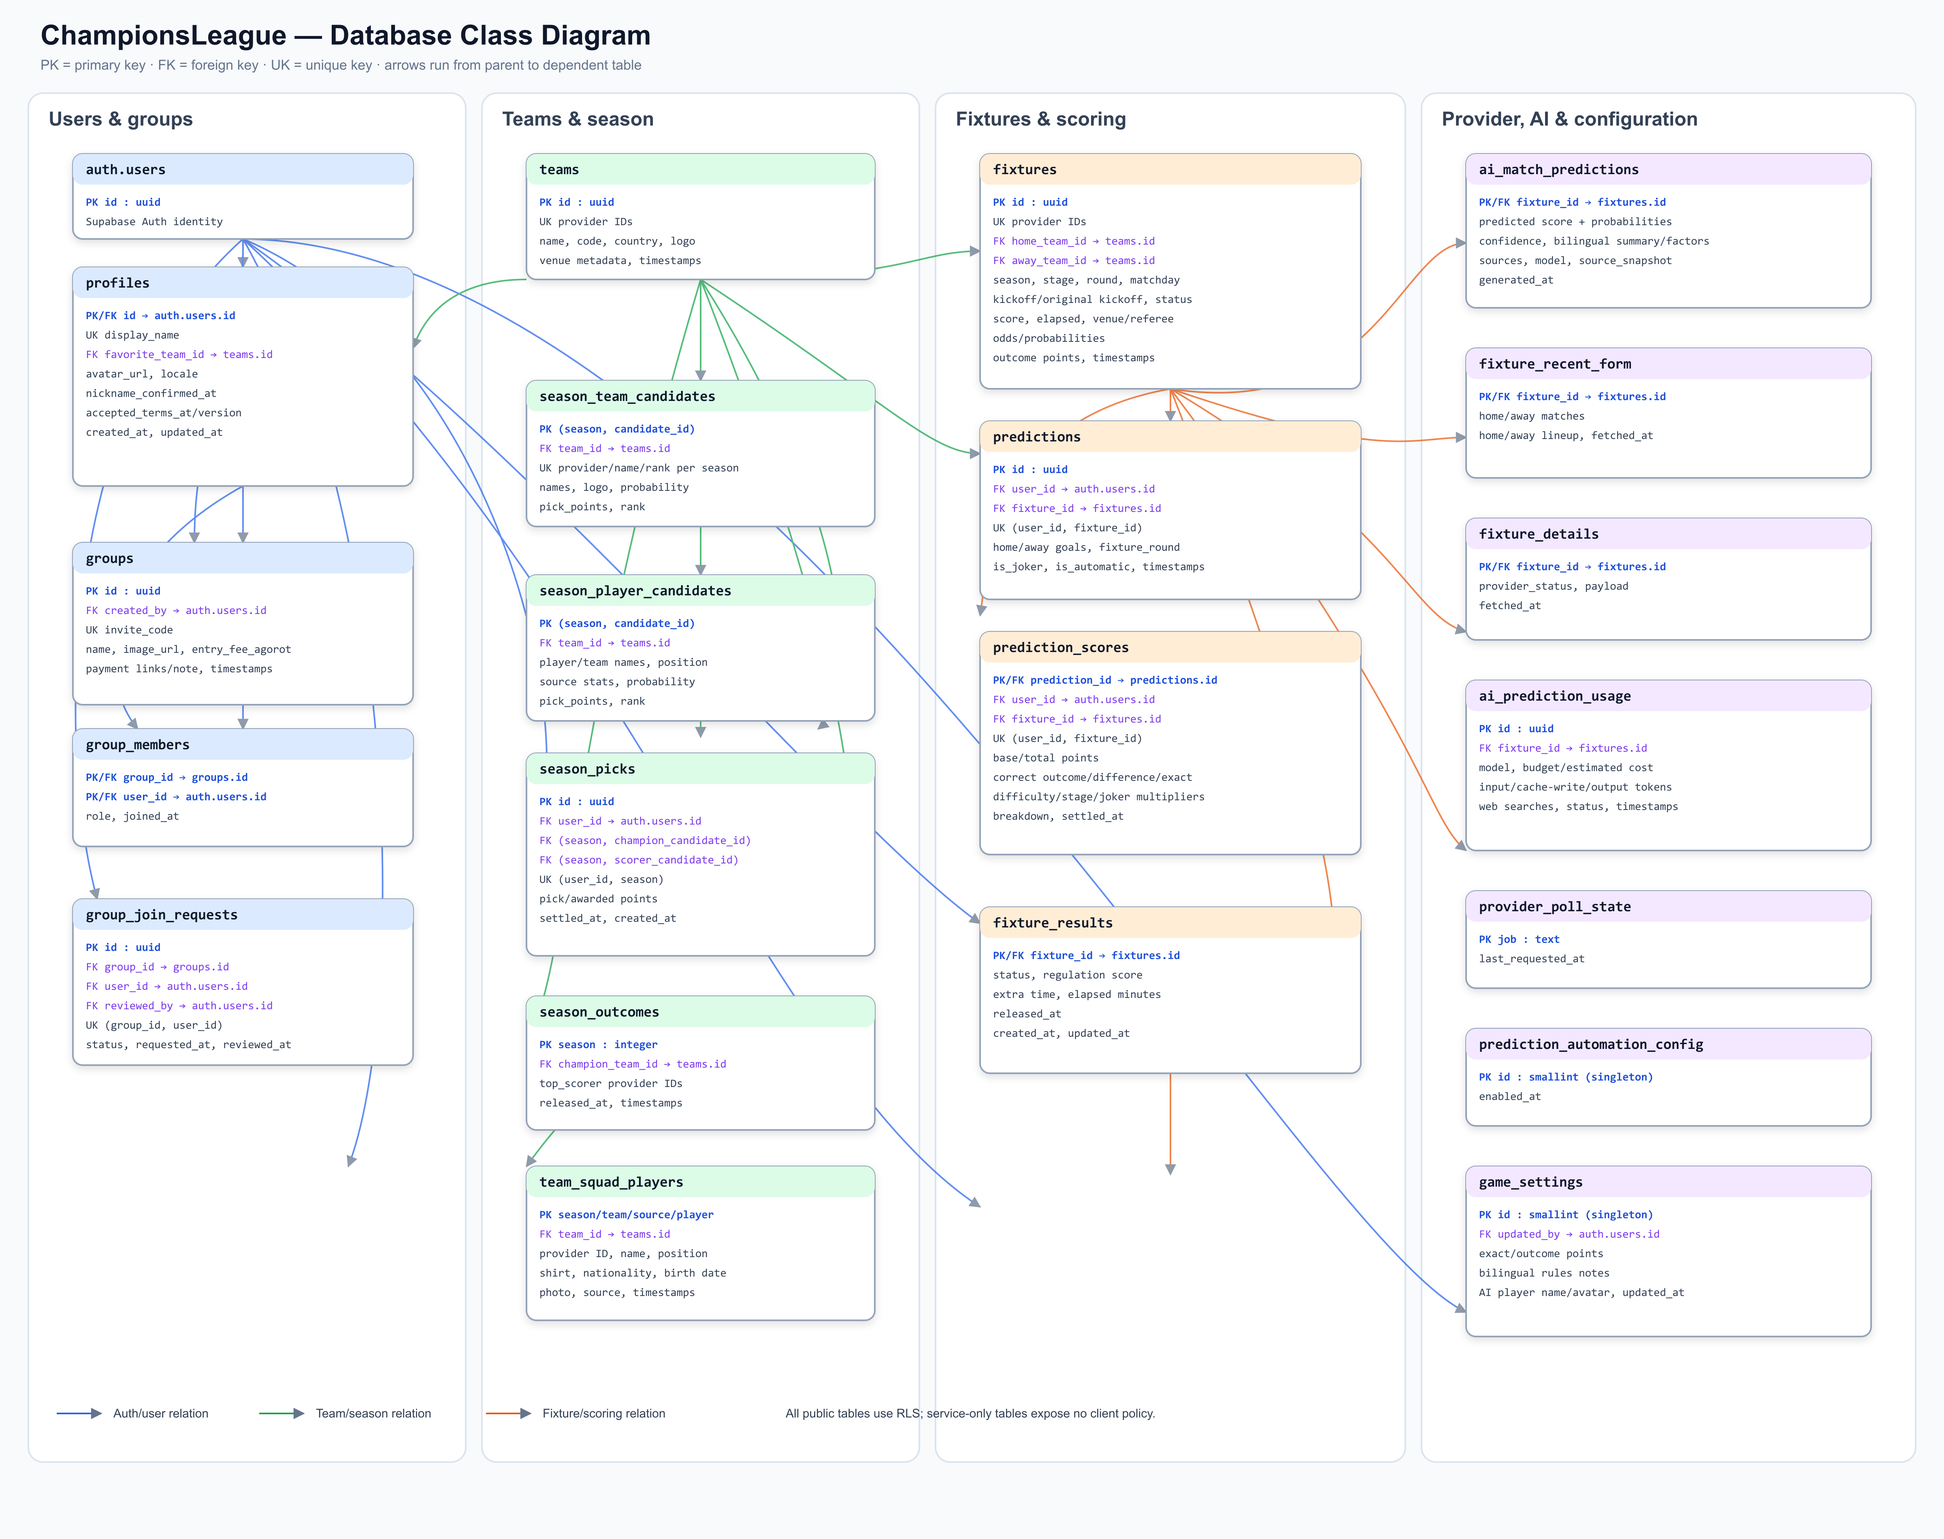
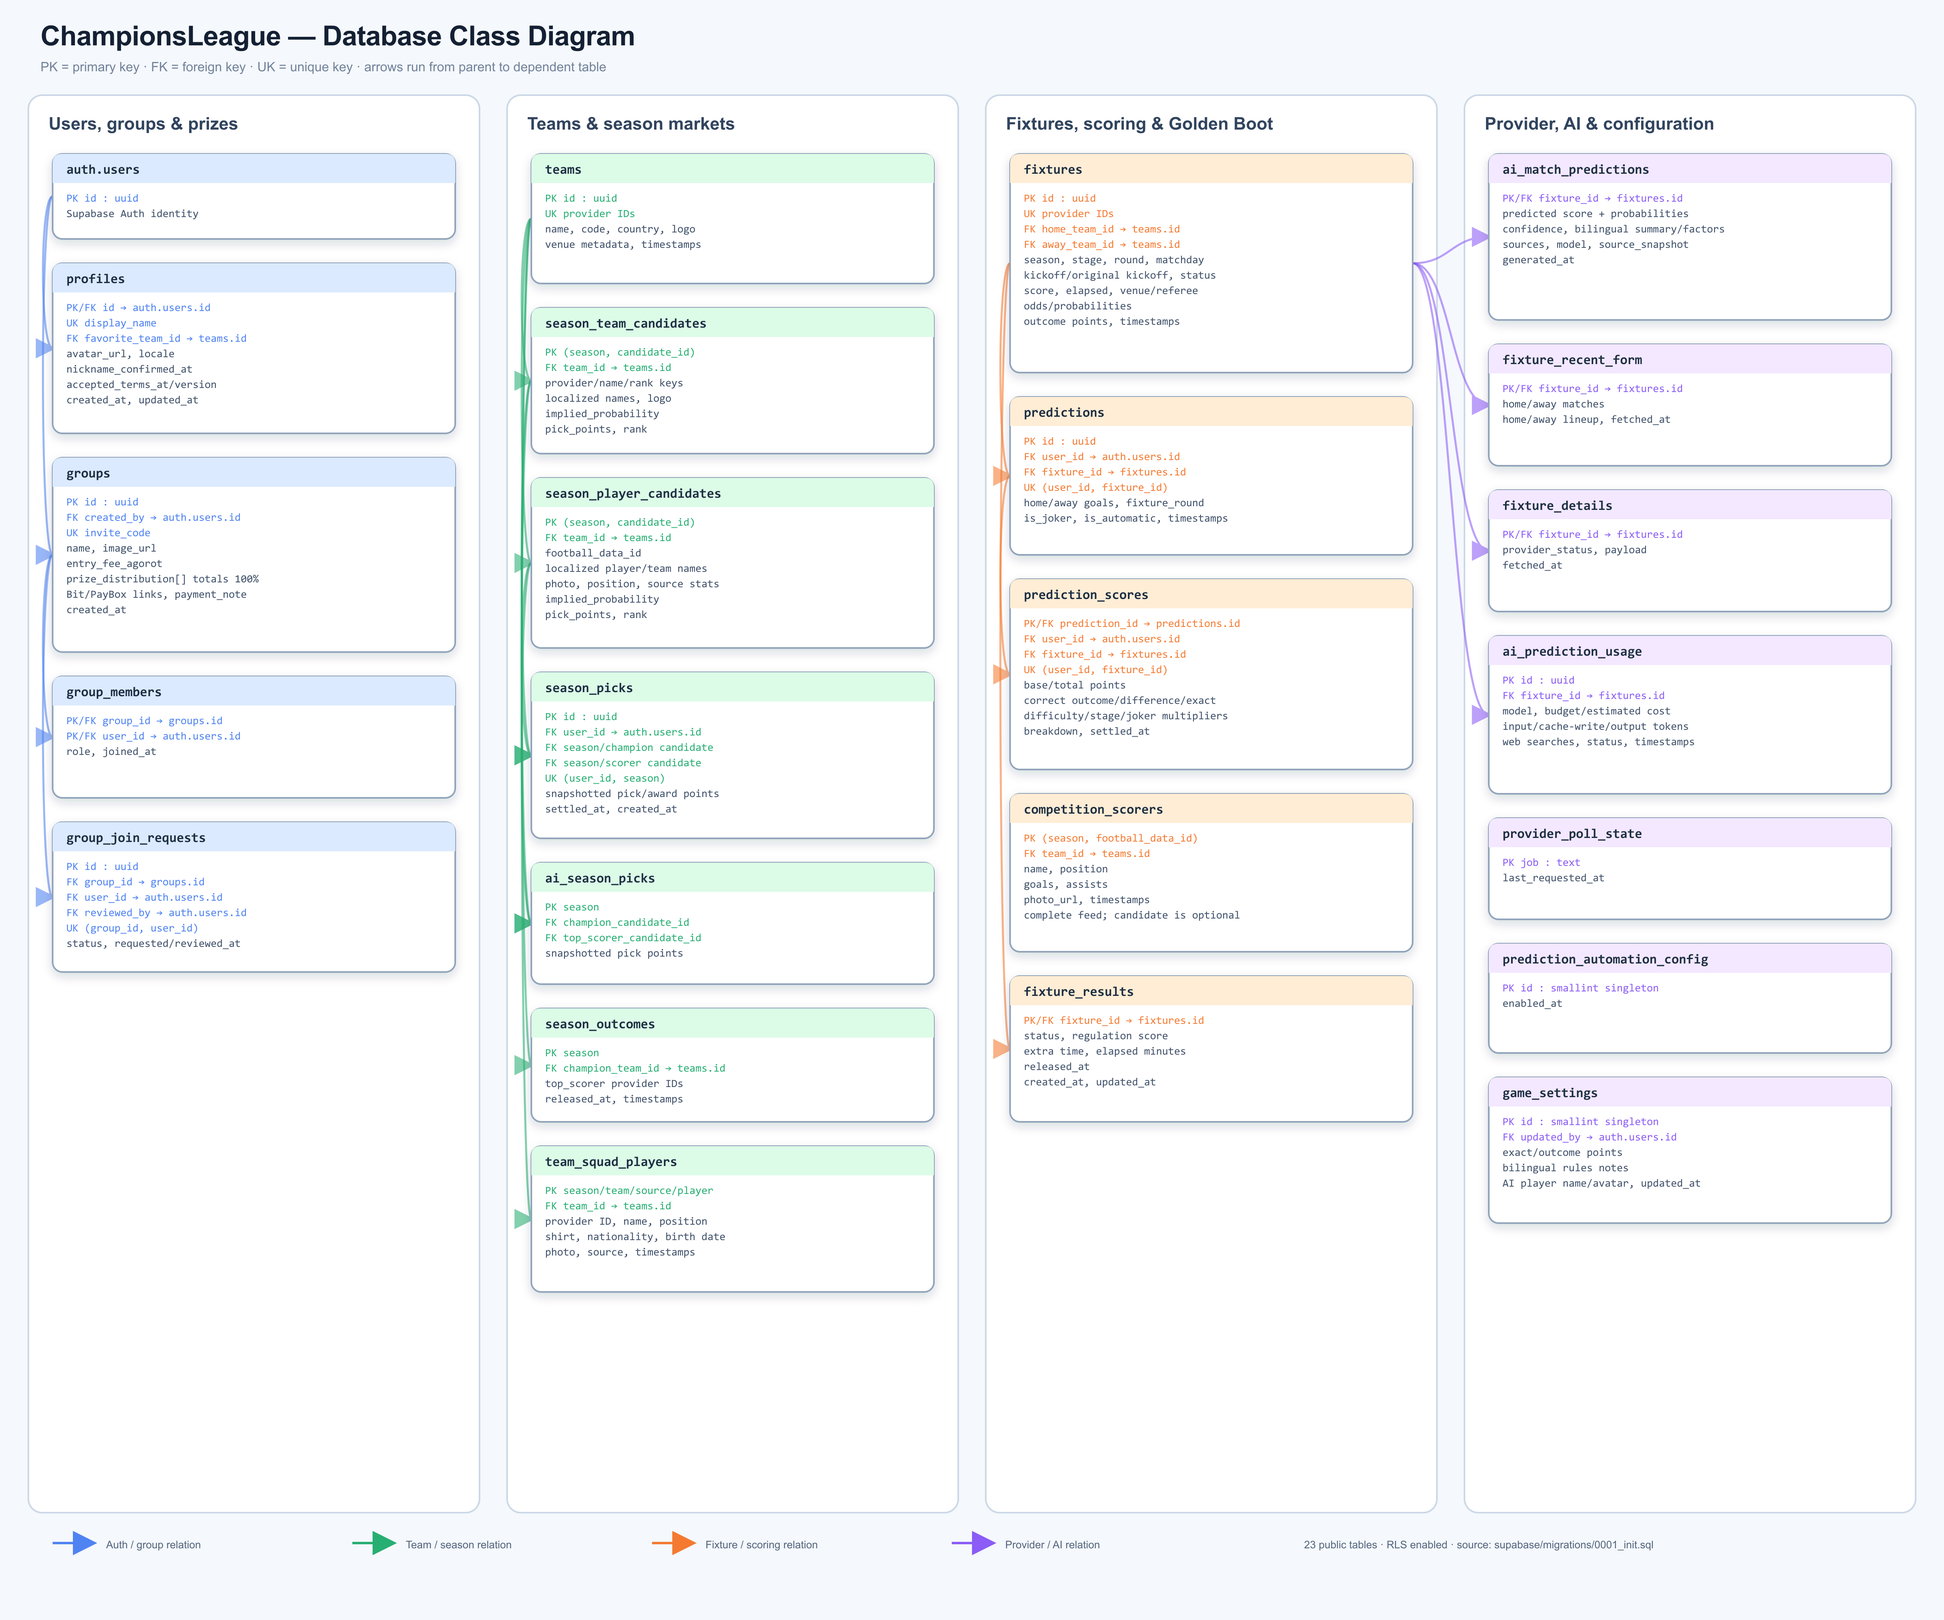
update

diff --git a/docs/project-engineering-guide.html b/docs/project-engineering-guide.html
@@ -175,6 +175,8 @@
         <a href="#request">Request lifecycle</a>
         <a href="#prediction">Prediction lifecycle</a>
         <a href="#live">Live data &amp; settlement</a>
+        <a href="#groups-prizes">Groups &amp; prizes</a>
+        <a href="#golden-boot">Golden Boot data</a>
         <a href="#ai">AI pipeline</a>
         <a href="#database">Database domains</a>
         <a href="#security">Security model</a>
@@ -302,8 +304,36 @@ docs/                    Operations, schema and this guide</pre>
         <div class="callout"><strong>Scoring uses regulation time.</strong> Provider aggregate goals may include extra time. Ingestion stores the provider’s full-time pair used by the game and treats extra time as display-only.</div>
       </section>
 
+      <section id="groups-prizes" data-search-section>
+        <div class="kicker">07 · Groups and prize distribution</div>
+        <h2>Each paid group owns one complete prize split</h2>
+        <p class="section-intro">Entry fees and payouts are group configuration. The application records and displays the arrangement but never receives or transfers money.</p>
+        <div class="grid">
+          <article class="card"><h3>Manager workflow</h3><p>A group manager edits the entry fee, external Bit or PayBox links, payment note and ordered prize shares in the profile group-management area. <code>lib/groups/actions.ts</code> authorizes the manager and validates every submitted value.</p></article>
+          <article class="card"><h3>Database invariant</h3><p><code>groups_prize_distribution_matches_fee</code> requires an empty array for a free group. A paid group must define one to ten positive whole percentages totaling exactly 100.</p></article>
+          <article class="card"><h3>Displayed pot</h3><p>The group leaderboard calculates the pot from approved member count × entry fee and turns the percentages into exact agorot amounts. Rounding preserves the complete pot.</p></article>
+          <article class="card"><h3>Responsive presentation</h3><p>The leaderboard keeps the prize summary compact on phones by rendering winner shares in a three-column grid; desktop retains the expanded card treatment.</p></article>
+        </div>
+      </section>
+
+      <section id="golden-boot" data-search-section>
+        <div class="kicker">08 · Golden Boot data</div>
+        <h2>The full scorer race is separate from the pick market</h2>
+        <div class="flow">
+          <div class="step"><b>Provider ingest</b><span>Football-Data returns the current complete scorer list.</span></div>
+          <div class="step"><b>Full-feed store</b><span><code>competition_scorers</code> upserts every player with goals.</span></div>
+          <div class="step"><b>Candidate join</b><span><code>football_data_id</code> links an optional preseason candidate and pick value.</span></div>
+          <div class="step"><b>Localization</b><span>Candidate names and team translations override provider display names when present.</span></div>
+          <div class="step"><b>Standings UI</b><span>Ranks by goals, then assists; displays goals, assists and optional pick points.</span></div>
+        </div>
+        <div class="grid">
+          <article class="card"><h3>Complete table</h3><p>A player does not need to have been selectable at tournament start to appear. Players outside the candidate market show an em dash in the points column.</p></article>
+          <article class="card"><h3>Image fallback</h3><p>The row prefers the scorer’s stored profile image, then the curated candidate image. When neither exists, it renders the player’s team crest.</p></article>
+        </div>
+      </section>
+
       <section id="ai" data-search-section>
-        <div class="kicker">07 · AI prediction pipeline</div>
+        <div class="kicker">09 · AI prediction pipeline</div>
         <h2>Research once, cache once, meter every call</h2>
         <div class="flow">
           <div class="step"><b>Scope</b><span>Nearest match week or explicit fixture, bounded by the configured horizon.</span></div>
@@ -316,21 +346,21 @@ docs/                    Operations, schema and this guide</pre>
       </section>
 
       <section id="database" data-search-section>
-        <div class="kicker">08 · Database domains</div>
-        <h2>Twenty-one tables, grouped by ownership</h2>
+        <div class="kicker">10 · Database domains</div>
+        <h2>Twenty-three public tables, grouped by ownership</h2>
         <div class="grid three">
           <article class="card"><h3>Identity &amp; groups</h3><p><code>profiles</code>, <code>groups</code>, <code>group_members</code>, <code>group_join_requests</code></p></article>
-          <article class="card"><h3>Competition</h3><p><code>teams</code>, <code>fixtures</code>, <code>fixture_results</code>, <code>fixture_details</code>, <code>fixture_recent_form</code>, <code>team_squad_players</code></p></article>
+          <article class="card"><h3>Competition</h3><p><code>teams</code>, <code>fixtures</code>, <code>fixture_results</code>, <code>fixture_details</code>, <code>fixture_recent_form</code>, <code>team_squad_players</code>, <code>competition_scorers</code></p></article>
           <article class="card"><h3>Predictions</h3><p><code>predictions</code>, <code>prediction_scores</code>, <code>prediction_automation_config</code></p></article>
-          <article class="card"><h3>Season-long picks</h3><p><code>season_team_candidates</code>, <code>season_player_candidates</code>, <code>season_picks</code>, <code>season_outcomes</code></p></article>
+          <article class="card"><h3>Season-long picks</h3><p><code>season_team_candidates</code>, <code>season_player_candidates</code>, <code>season_picks</code>, <code>ai_season_picks</code>, <code>season_outcomes</code></p></article>
           <article class="card"><h3>AI</h3><p><code>ai_match_predictions</code>, <code>ai_prediction_usage</code></p></article>
           <article class="card"><h3>Operations</h3><p><code>game_settings</code>, <code>provider_poll_state</code></p></article>
         </div>
-        <p>See the repository schema documentation in <code>docs/database-schema.md</code> and <code>docs/database-schema.png</code>. The source of truth is <code>supabase/migrations/0001_init.sql</code>.</p>
+        <p>See the repository schema documentation in <code>docs/database-schema.md</code> and <code>docs/database-schema.png</code>. The source of truth is <code>supabase/migrations/0001_init.sql</code>; regenerate the visual with <code>npm run docs:schema</code>.</p>
       </section>
 
       <section id="security" data-search-section>
-        <div class="kicker">09 · Security model</div>
+        <div class="kicker">11 · Security model</div>
         <h2>Assume every browser request is hostile</h2>
         <table>
           <thead><tr><th>Boundary</th><th>Control</th><th>Why it exists</th></tr></thead>
@@ -347,7 +377,7 @@ docs/                    Operations, schema and this guide</pre>
       </section>
 
       <section id="routes" data-search-section>
-        <div class="kicker">10 · Route inventory</div>
+        <div class="kicker">12 · Route inventory</div>
         <h2>User surfaces and machine endpoints</h2>
         <div class="grid">
           <article class="card"><h3>Localized pages</h3><p><code>/[locale]</code>, <code>/groups</code>, <code>/leaderboard</code>, <code>/standings</code>, <code>/predictions</code>, <code>/profile</code>, <code>/matches/[fixtureId]</code>, <code>/onboarding</code>, <code>/admin</code>, authentication and legal pages.</p></article>
@@ -356,7 +386,7 @@ docs/                    Operations, schema and this guide</pre>
       </section>
 
       <section id="change-map" data-search-section>
-        <div class="kicker">11 · Change map</div>
+        <div class="kicker">13 · Change map</div>
         <h2>Start here for common engineering tasks</h2>
         <table>
           <thead><tr><th>Task</th><th>Primary files</th><th>Also verify</th></tr></thead>
@@ -366,6 +396,8 @@ docs/                    Operations, schema and this guide</pre>
             <tr><td>Add provider fields</td><td><code>lib/football-data/types.ts</code>, <code>mappers.ts</code></td><td>Schema, generated DB types, ingest tests</td></tr>
             <tr><td>Change live behavior</td><td><code>lib/ingest/live.ts</code>, <code>live-window.ts</code></td><td>Both live routes, global refresh component, provider quota</td></tr>
             <tr><td>Change leaderboard</td><td><code>lib/leaderboard/ranking.ts</code>, <code>queries.ts</code></td><td>AI projection, group membership, history visibility</td></tr>
+            <tr><td>Change group prizes</td><td><code>lib/groups/prizes.ts</code>, <code>actions.ts</code>, <code>components/groups/group-forms.tsx</code></td><td>100% DB constraint, entry fee, leaderboard card and rules copy</td></tr>
+            <tr><td>Change Golden Boot table</td><td><code>lib/standings/scorers.ts</code>, <code>app/[locale]/standings/page.tsx</code></td><td>Full-feed ingest, candidate point join, image fallback and mobile widths</td></tr>
             <tr><td>Add UI copy</td><td><code>messages/en.json</code> and <code>messages/he.json</code></td><td>RTL layout and long Hebrew strings</td></tr>
             <tr><td>Add a page</td><td><code>app/[locale]/…/page.tsx</code></td><td>Metadata, locale validation, nav and auth protection</td></tr>
             <tr><td>Change DB schema</td><td><code>supabase/migrations/0001_init.sql</code></td><td>DB types, RLS, grants, schema diagram and preflight</td></tr>
@@ -375,7 +407,7 @@ docs/                    Operations, schema and this guide</pre>
       </section>
 
       <section id="operations" data-search-section>
-        <div class="kicker">12 · Operations</div>
+        <div class="kicker">14 · Operations</div>
         <h2>Local and production runbook</h2>
         <div class="grid">
           <article class="card"><h3>Local verification</h3><pre>npm install
@@ -386,15 +418,17 @@ npm run build</pre></article>
           <article class="card"><h3>Database and data</h3><pre>npx supabase db push
 npm run db:preflight
 npm run ingest -- --dry
-npm run ingest</pre></article>
+npm run ingest
+npm run docs:schema</pre></article>
         </div>
         <details><summary>Scheduler expectations</summary><div>Vercel schedules daily ingestion only. A minute-capable external scheduler or suitable Vercel plan must call live polling and settlement with <code>Authorization: Bearer $CRON_SECRET</code>.</div></details>
         <details><summary>Observability currently available</summary><div>Cron routes return structured reports; admin exposes participant completeness, settlement and AI cost state; provider quota metadata flows through the client. There is no dedicated tracing vendor configured.</div></details>
         <details><summary>Historical replay mode</summary><div><code>REBASE_ENABLED=true</code> remaps historical kickoff times around a pivot. The untouched time remains in <code>original_kickoff_at</code>. Live provider polling disables itself during replay to avoid leaking known results.</div></details>
+        <details><summary>Back up before schema work</summary><div>Paid Supabase projects expose scheduled restore points under Database &rarr; Backups. For a downloadable copy, create logical role, schema and data dumps with <code>supabase db dump</code>. Database backups contain Storage metadata but not the stored image bytes, so export the <code>avatars</code> and <code>group-images</code> buckets separately. Never commit dumps containing Auth or user data.</div></details>
       </section>
 
       <section id="gotchas" data-search-section>
-        <div class="kicker">13 · Non-obvious rules</div>
+        <div class="kicker">15 · Non-obvious rules</div>
         <h2>Read these before the first refactor</h2>
         <div class="grid">
           <article class="card"><h3>Bootstrap is destructive</h3><p><code>0001_init.sql</code> drops <code>public</code>. It is complete for a fresh project, not an upgrade script for populated production.</p></article>
@@ -403,12 +437,14 @@ npm run ingest</pre></article>
           <article class="card"><h3>Cache components are enabled</h3><p>Clock- or request-dependent data must opt into request execution correctly. Follow the local Next.js 16 docs before changing cache behavior.</p></article>
           <article class="card"><h3>Database types must track SQL</h3><p><code>lib/supabase/database.types.ts</code> is the compile-time contract. Regenerate it after deploying schema changes.</p></article>
           <article class="card"><h3>Free provider data is limited</h3><p>Detailed lineups, events and scorer data may require Football-Data.org Deep Data. All detail fields therefore remain optional.</p></article>
+          <article class="card"><h3>Scorer feed is not the pick market</h3><p><code>competition_scorers</code> stores the complete ranked feed. Only a matching <code>season_player_candidates</code> row supplies a tournament-pick point value; otherwise the UI deliberately shows an em dash.</p></article>
+          <article class="card"><h3>Prize totals are a database invariant</h3><p>Paid groups require one to ten positive whole-number shares totaling exactly 100%. Free groups require an empty distribution. Keep UI validation aligned with the SQL check.</p></article>
         </div>
         <div class="callout danger"><strong>Never “fix” a permission problem by exposing the service-role key.</strong> Add the narrowest policy, grant or security-definer RPC that preserves the intended boundary.</div>
       </section>
 
       <section id="first-day" data-search-section>
-        <div class="kicker">14 · First-day plan</div>
+        <div class="kicker">16 · First-day plan</div>
         <h2>A practical onboarding sequence</h2>
         <ul class="checklist">
           <li><input type="checkbox"><span>Read <code>README.md</code>, <code>docs/setup.md</code> and the database diagram.</span></li>

diff --git a/docs/database-schema.md b/docs/database-schema.md
@@ -1,7 +1,7 @@
 # Database schema
 
-This is the effective schema created by `0001_init.sql` plus the subsequent
-non-destructive upgrade migrations. Apply migrations in filename order.
+This is the effective schema created by the single consolidated
+`supabase/migrations/0001_init.sql` bootstrap.
 
 ```mermaid
 classDiagram
@@ -282,6 +282,8 @@ auth_users "1" --> "0..*" game_settings : updates
 - `predictions` enforces one row per `(user_id, fixture_id)`. `fixture_round` is deliberately denormalized for the one-joker-per-user-per-round unique index.
 - `prediction_scores.prediction_id` makes settlement one-to-one with a prediction; its copied `user_id` and `fixture_id` support fast leaderboard aggregation.
 - `season_picks` and `ai_season_picks` reference both candidate tables with composite foreign keys `(season, candidate_id)`, preventing candidates from another season being selected. The AI row snapshots its published points and is exposed only after picks lock.
+- `competition_scorers` stores the complete provider Golden Boot feed independently of `season_player_candidates`. A scorer without a matching candidate remains visible but has no tournament-pick point value; player photos fall back to the candidate image and then the team crest.
+- `groups.prize_distribution` is empty when `entry_fee_agorot` is zero. Paid groups require one to ten positive whole-number shares whose sum is exactly 100.
 - `prediction_automation_config`, `game_settings`, and `provider_poll_state` are operational singleton/state tables and therefore have no parent relation.
 - `fixture_results`, `ai_prediction_usage`, `prediction_automation_config`, and `provider_poll_state` are service-only under RLS. Client-visible data is controlled by the policies in `0001_init.sql`.
 - Foreign keys to users generally cascade on user deletion; optional audit references such as `reviewed_by` and `updated_by` become `NULL`. Fixture-owned rows cascade when a fixture is deleted.
